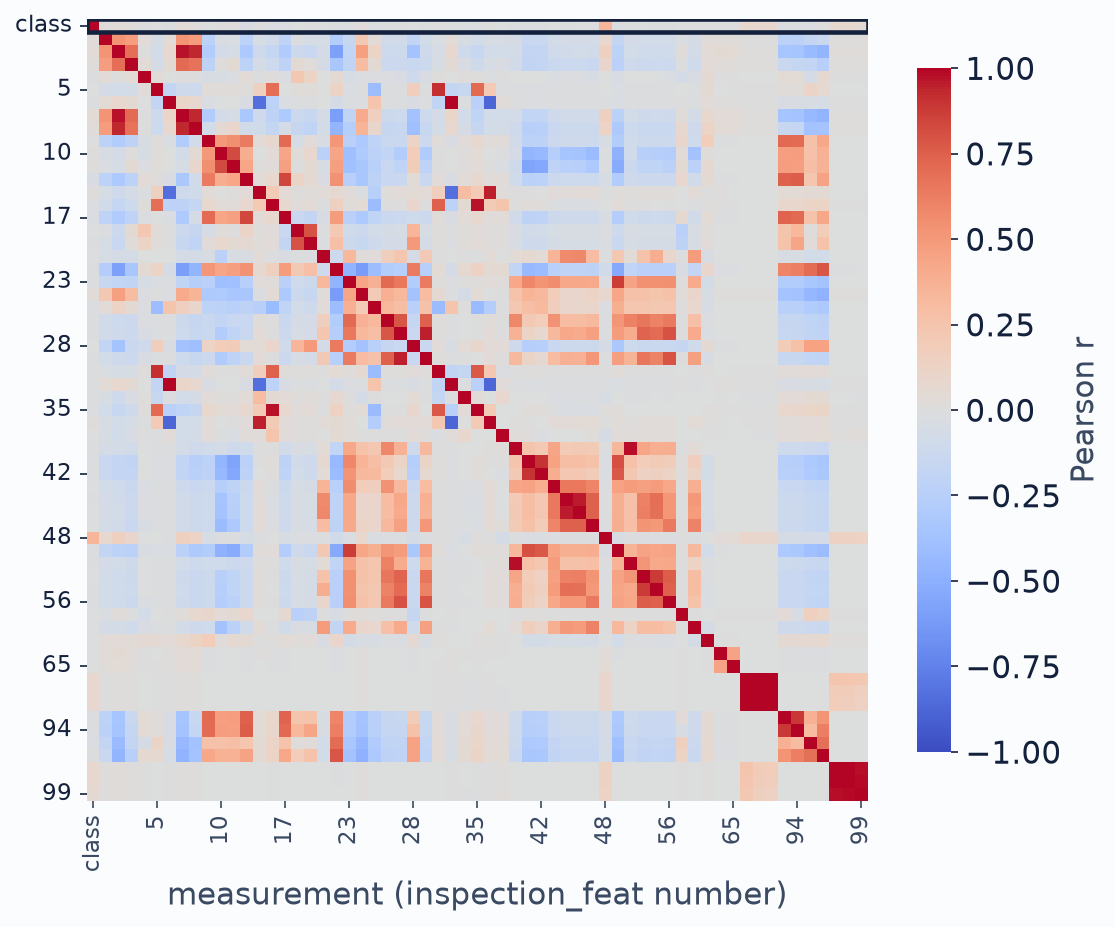
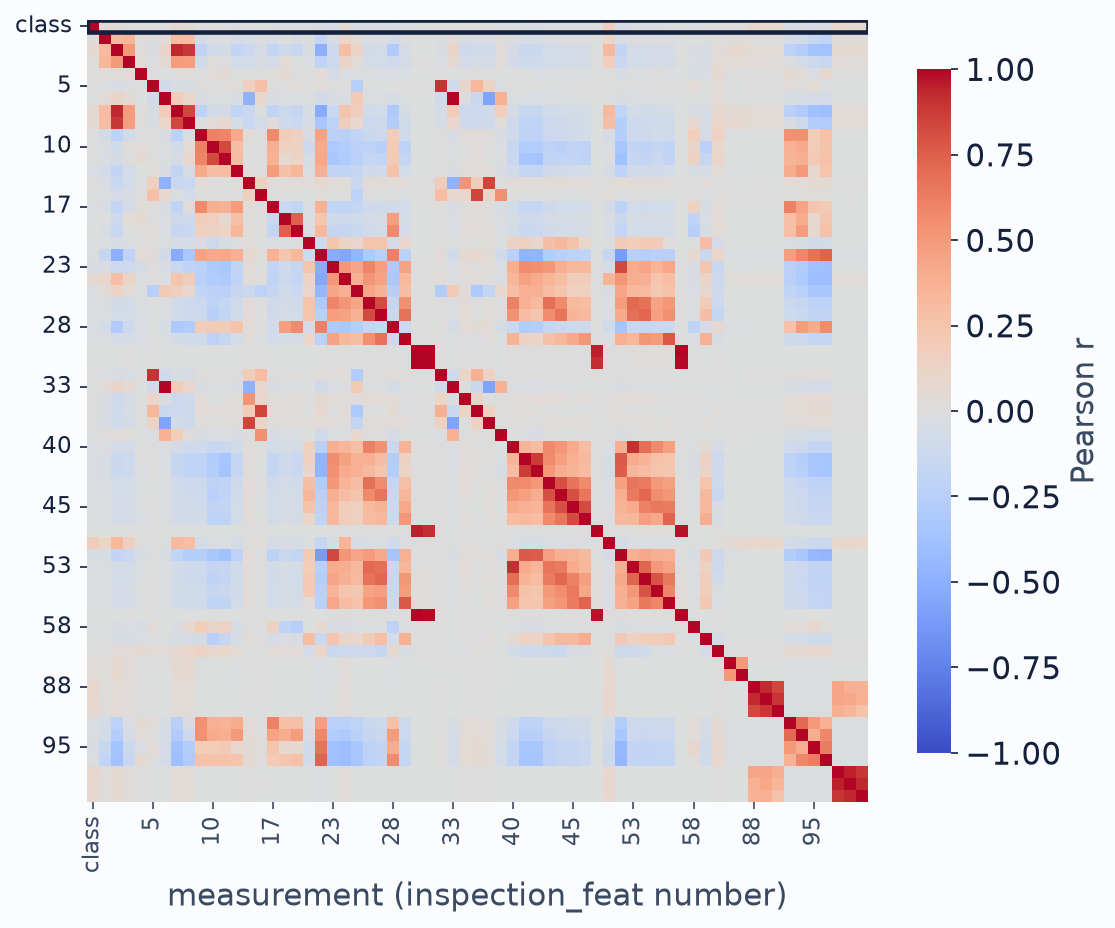
P3 data analysis: correlation matrix over the whole data set (440,274 rows)

diff --git a/scripts/p3_feature_relevance.py b/scripts/p3_feature_relevance.py
@@ -2,7 +2,8 @@
 
     python scripts/p3_feature_relevance.py  ->  results/p3_feature_relevance.json, docs/img/slides/corr_matrix.png, shap_share.png
 
-1 correlation  Pearson correlation matrix of the 70 measurements and the class, training rows (days 1-22)
+1 correlation  Pearson correlation matrix of the 70 measurements and the class: whole data set (all 440,274 rows; figure)
+               and training rows of days 1-22 (|r| next to the SHAP bars, same rows as the model)
 2 shap         SHAP values (TreeExplainer, Lundberg & Lee 2017) of the model of setting "once", seed 42,
                on the 20 % held-out rows of days 1-22; share of each input in the total mean |SHAP|
 """
@@ -51,8 +52,14 @@ def main():
     out["shap"]["filter_abs_r_ge_0.1_keeps"] = keep
     out["shap"]["filter_abs_r_ge_0.1_shap_share_kept"] = float(sum(share[names.index(n)] for n in keep))
     out["shap"]["top10_abs_r_below_0.1"] = int(sum(1 for i in order[:10] if names[i] in rc.index and rc[names[i]] < 0.1))
+    da = pd.read_csv("data/dataset.csv", index_col=0, usecols=lambda c: c == "Unnamed: 0" or c.startswith("inspection_feat") or c == "class")
+    da = da[num + ["class"]].loc[:, da[num + ["class"]].std() > 0]
+    CA = da.corr(method="pearson"); ra = CA["class"].drop("class").abs()
+    out["correlation_all_rows"] = {"rows": int(len(da)), "true_defects": int(da["class"].sum()), "measurements_with_variation": int(len(ra)),
+                                   "max_abs_r_with_class": float(ra.max()), "argmax": ra.idxmax(), "n_abs_r_with_class_below_0.1": int((ra < 0.1).sum()),
+                                   "abs_r_with_class": ra.round(4).to_dict()}
     OUT.write_text(json.dumps(out, indent=1))
-    figures(out, C)
+    figures(out, CA)
     print(json.dumps({k: v for k, v in out["correlation"].items() if k != "abs_r_with_class"}, indent=1))
     print({k: v for k, v in out["shap"].items() if k != "share"})
     print([(n.replace("inspection_", ""), round(s * 100, 1)) for n, s in list(out["shap"]["share"].items())[:15]])
